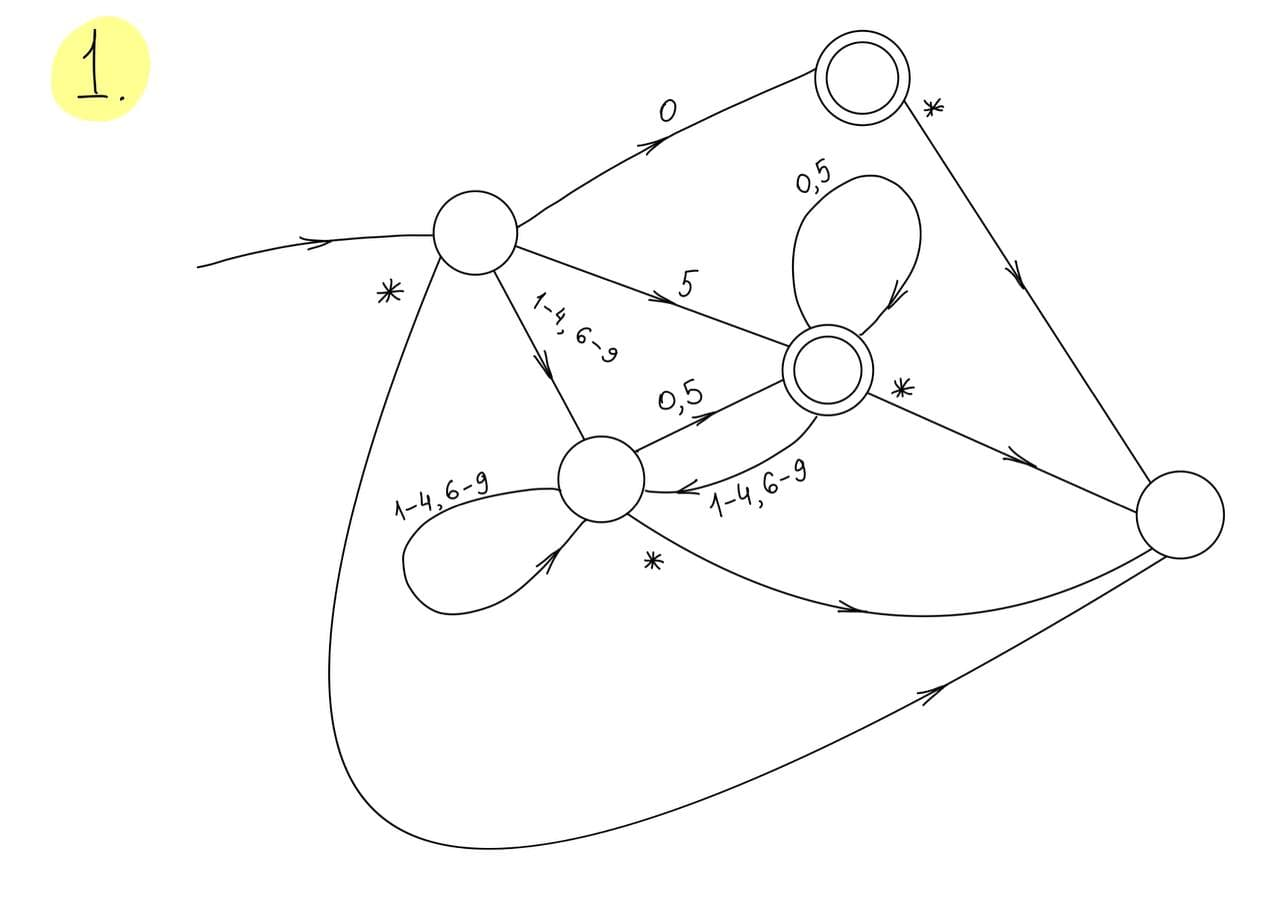
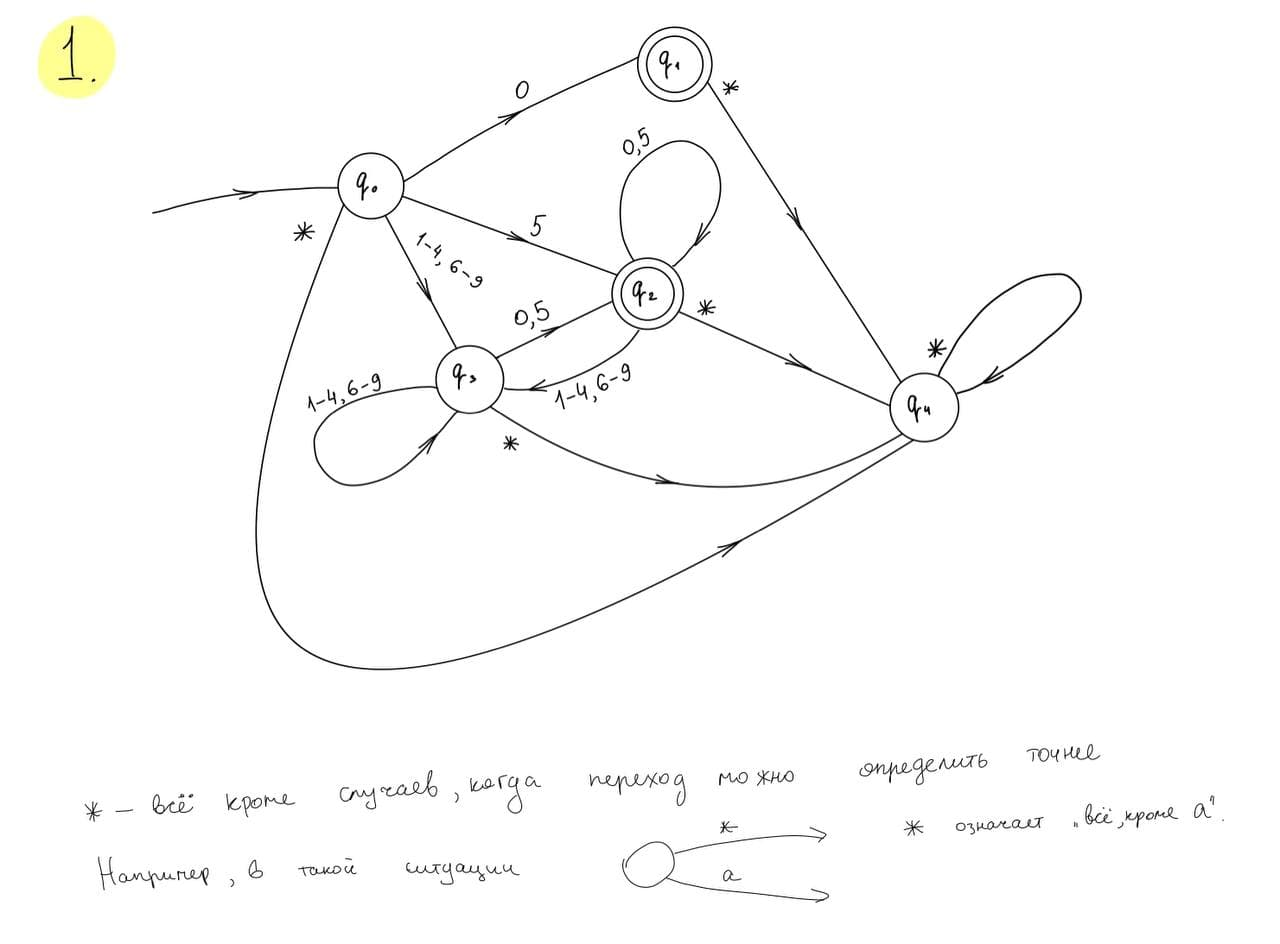
Fixed mistakes

diff --git a/README.md b/README.md
@@ -91,3 +91,7 @@
 В файлах `example1.dfa`, `example2.dfa`, `example3.dfa` можно найти примеры описаний ращличных небольших автоматов на этом языке.
 В `example1.dfa` можно видеть описание автомата из 1й задачи ДЗ. Во втором примере описан автомат, который принимает все
 бинарные строки, которые начинаются с нуля. В третьем примере автомат принимает все бинарные строки, заканчивающиеся на 0.
+
+В примерах символ `*` играет достаточно важную роль. Он означает, что при невозможности сделать переход из текущего 
+состояния по более строгим правилам мы используем именно этот переход. В некоторых местах он может отсутствовать, в 
+таком случае автомат является неполным.
